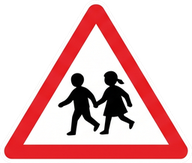
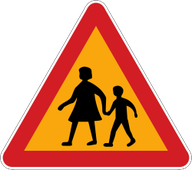
TSnavi: 어린이보호 세모를 공식 주의표지 133 그림으로 (노란 바탕·큰 아이가 작은 아이 손잡음, 위키미디어 공용 KR_road_sign_133_(newer).svg)

diff --git a/tsnavi/index.html b/tsnavi/index.html
@@ -68,7 +68,7 @@
   #sgChild{filter:drop-shadow(0 2px 3px #0006)}
   /* 11/23 실차 '어린이보호 표지·아이콘이 단속카메라 같다' → 어린이보호는 세모 표지 하나(sg_kid), 둥근 제한 표지·작은 아이 아이콘·신호등은 빼고 숫자는 세모 아래 검은 판 */
   #alertBox.child #sgChild{display:none!important}
-  .lim.z,.lim.x.z{background:url(img/sg_kid.png) center top/84px auto no-repeat;justify-content:flex-end}
+  .lim.z,.lim.x.z{background:url(img/sg_kid.png?v=2) center top/84px auto no-repeat;justify-content:flex-end}
   .lim.z b,.lim.x.z b{margin:0 0 -20px;font-size:25px;background:#111;color:#fff;border-radius:7px;padding:2px 10px 3px;box-shadow:0 2px 5px #0006}
   #alertBox.child #signWrap{margin-bottom:18px}
   #spd{margin-bottom:4px;font-size:40px;font-weight:900;line-height:1;margin-top:2px;color:#111;text-shadow:0 0 4px #fff,0 0 4px #fff,0 0 8px #fff}
@@ -483,7 +483,7 @@ body.hpon #turn{display:none!important}body.hpon #hpBox{margin-top:0}
   <div id="limNow"></div>
   <div id="spd">-</div>
   <div id="signWrap"><div class="lim" id="lim">60</div>
-    <img id="sgChild" src="img/sg_kid.png" alt="">
+    <img id="sgChild" src="img/sg_kid.png?v=2" alt="">
     <svg id="sgSig" viewBox="0 0 60 100"><rect x="10" y="4" width="40" height="92" rx="10" fill="#222" stroke="#fff" stroke-width="4"/><circle cx="30" cy="25" r="10" fill="#ff3030"/><circle cx="30" cy="50" r="10" fill="#ffc400"/><circle cx="30" cy="75" r="10" fill="#22c55e"/></svg>
   </div>
   <div id="pill">-</div>
